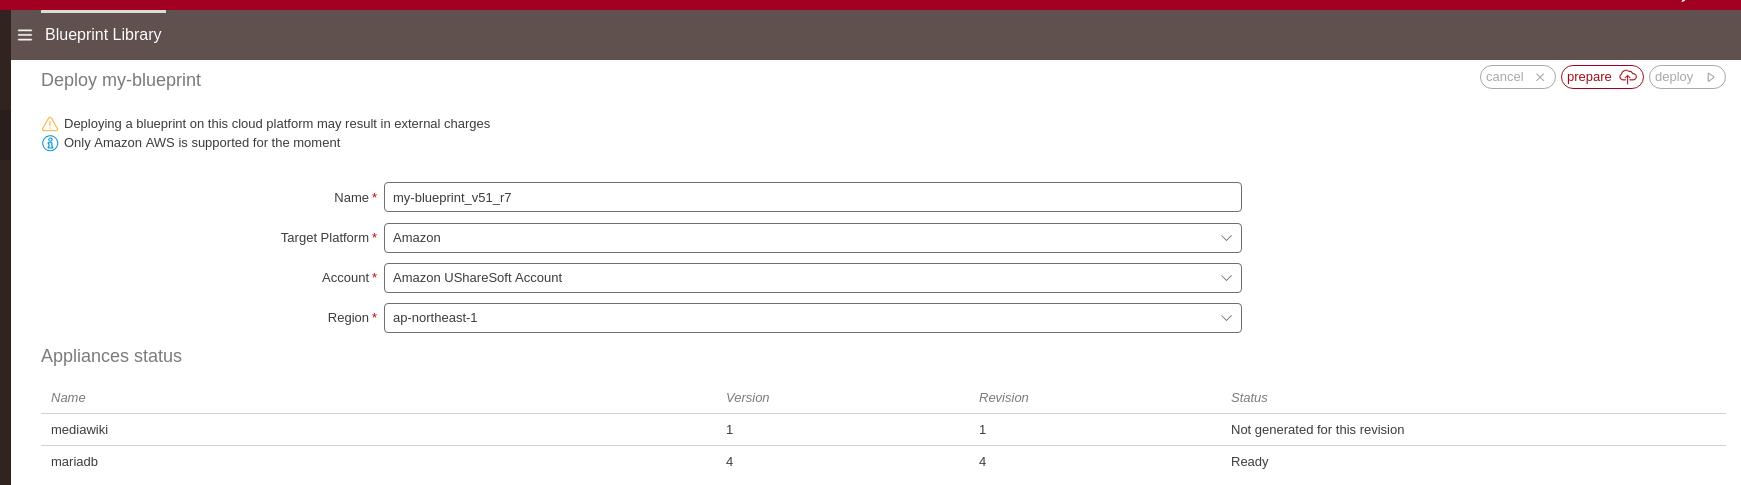
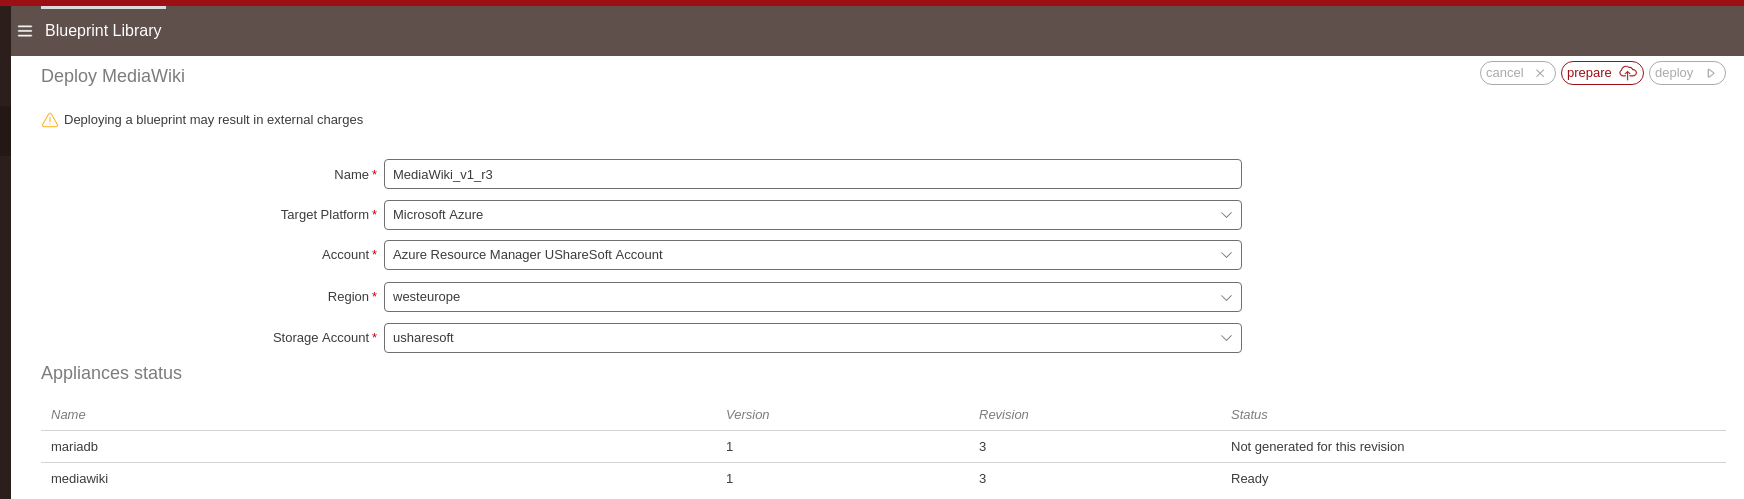
Blueprint Azure deployment support

diff --git a/end-user/en/source/pages/blueprint/blueprint-deploy.rst b/end-user/en/source/pages/blueprint/blueprint-deploy.rst
@@ -7,16 +7,15 @@ Deploying a Blueprint
 
 Once you have created a blueprint you can deploy it to a cloud platform. For details about creating a blueprint, refer to :ref:`blueprint-create`.
 
-.. warning:: In order to deploy a blueprint, you must ensure that the appliances you used to create the blueprint have been published in the same region as you wish to deploy your blueprint. Refer to :ref:`appliance-publish-machine-image`.
-
 To deploy a blueprint: 
 
 	#. From the ``Blueprints`` page, select the blueprint you want to deploy.
 	#. Click on ``deploy`` in the top right. 
-	#. Enter the ``Name`` of the deployment.  
-	#. Select the cloud account you want to use to deploy the blueprint. Currently only AWS is supported.
-
-	#. From the drop-down menu, select the ``Region`` in which the blueprint should be deployed. This should be the same region used to publish the appliances that are included in the blueprint.
+	#. Enter the ``Name`` of the deployment.
+        #. Select the target platform you want to deploy to.
+                   .. note:: Currently only AWS and Azure are supported.
+	#. Select the cloud account you want to use to deploy the blueprint.
+	#. From the drop-down menu, select the ``Region`` in which the blueprint should be deployed and fill in any additional information required.
 	#. On the bottom of the page, there is a list of the appliances used by your blueprint. For each of these appliances, you can see their current status. All the appliances need to be ready (an appliance is ready when its last version is published to the selected region). If an appliance is not in ``Ready`` state, you will not be able to publish. You can prepare it for deployment directly from this page by clicking ``prepare``.
 
     			.. image:: /images/blueprint-prepare.png
